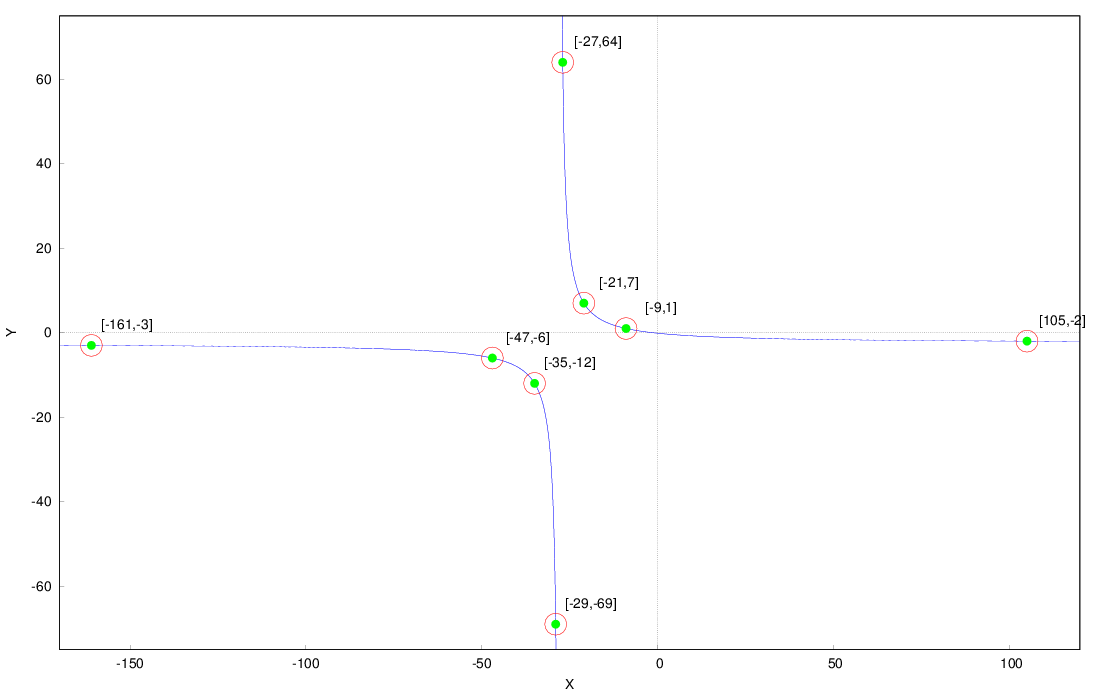
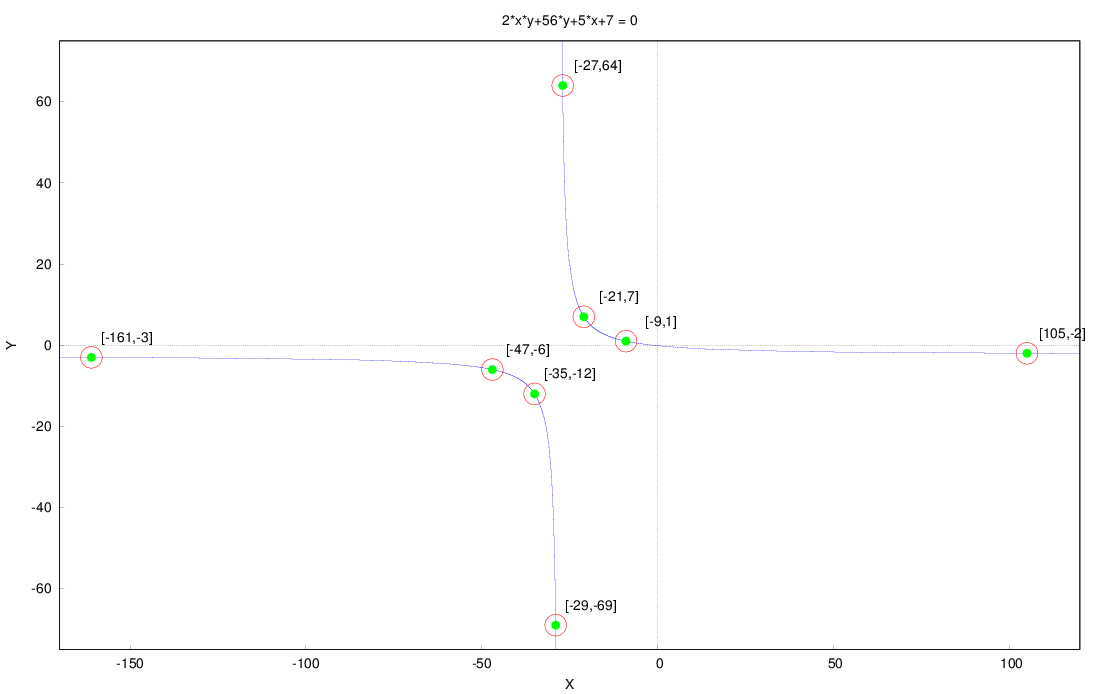
added some examples

diff --git a/share/diophantine/README.md b/share/diophantine/README.md
@@ -32,3 +32,11 @@ Graphical example:
 	(%i8) dio_draw_example();
 
 ![Graphical example](dio_draw_example.png)
+
+	(%i9) dio_draw_example2();
+
+![Graphical example2](dio_draw_example2.png)
+
+	(%i10) dio_draw_example3();
+
+![Graphical example2](dio_draw_example3.png)
